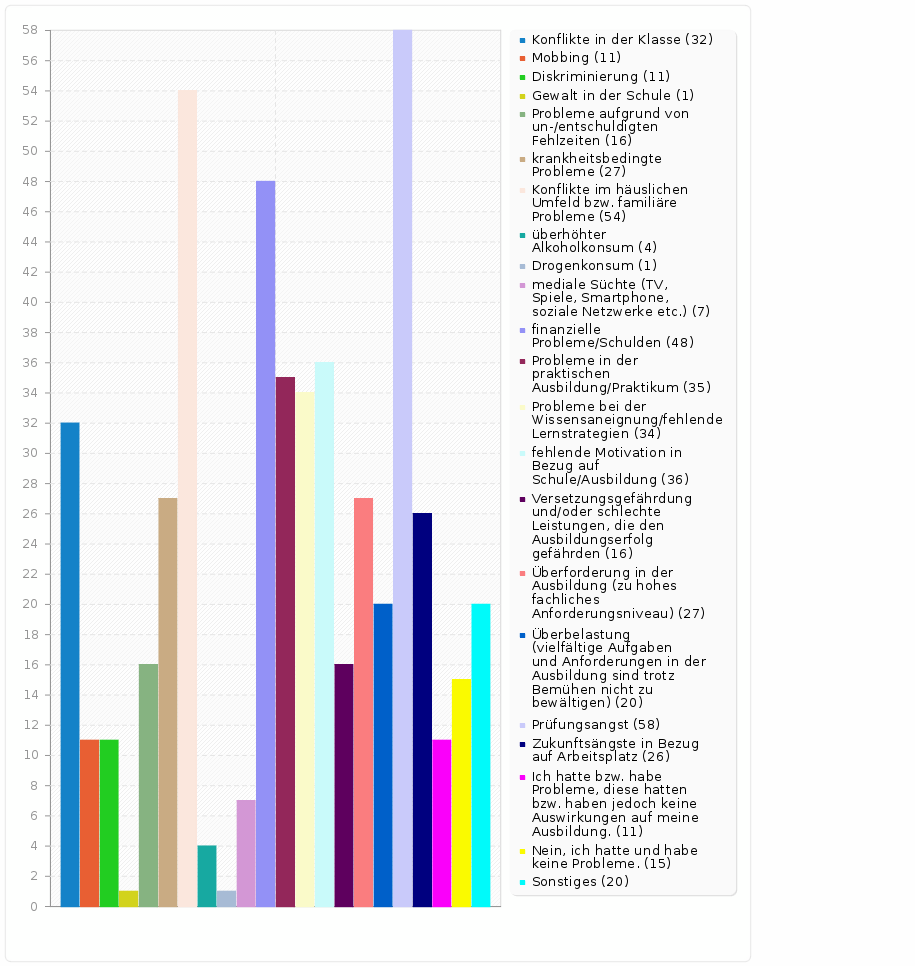
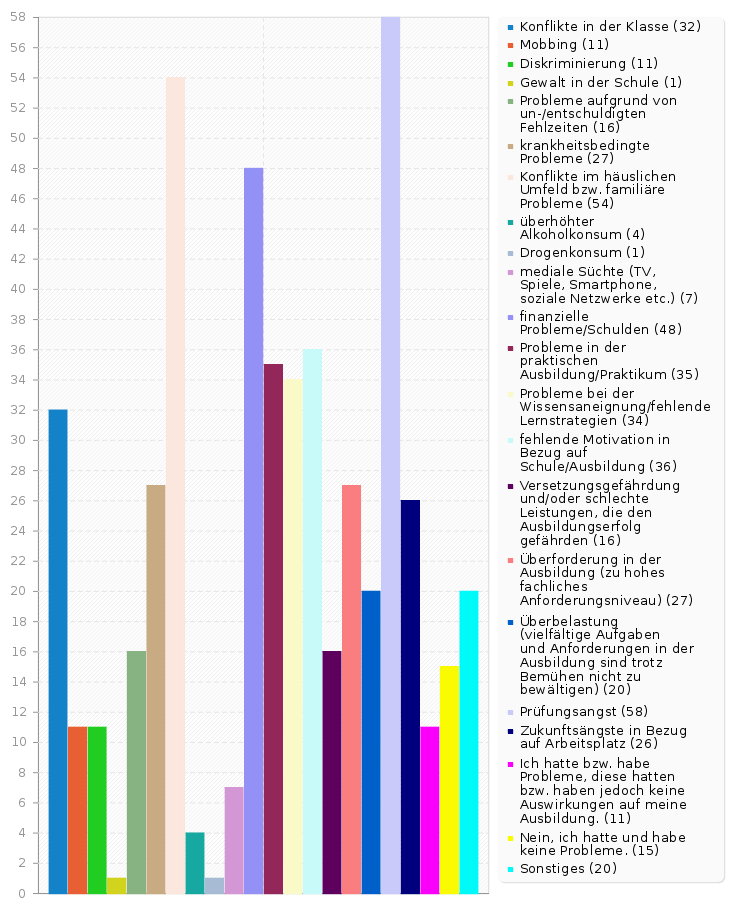
Updated graphics to better one.

diff --git a/kapitel8.tex b/kapitel8.tex
@@ -72,7 +72,7 @@ Das DRK Bildungswerk SN hat zum Zeitpunkt der Befragung einen Vertrauenslehrer. 
 
 \begin{figure}[hp]
 	\centering
-		\includegraphics[width=0.9\textwidth]{images/Gruende-fuer-die-Nichtinaspruchnahme-des-Vertrauenslehrers.jpg}
+		\includegraphics[width=0.9\textwidth]{images/Gruende-fuer-die-Nichtinaspruchnahme-des-Vertrauenslehrers.png}
 	\caption{Gründe für die bisherige Nicht-Inanspruchnahme des Vertrauenslehrers am DRK Bildungswerk SN}
 	\label{fig:Gruende-fuer-die-Nichtinaspruchnahme-des-Vertrauenslehrers}
 \end{figure}
